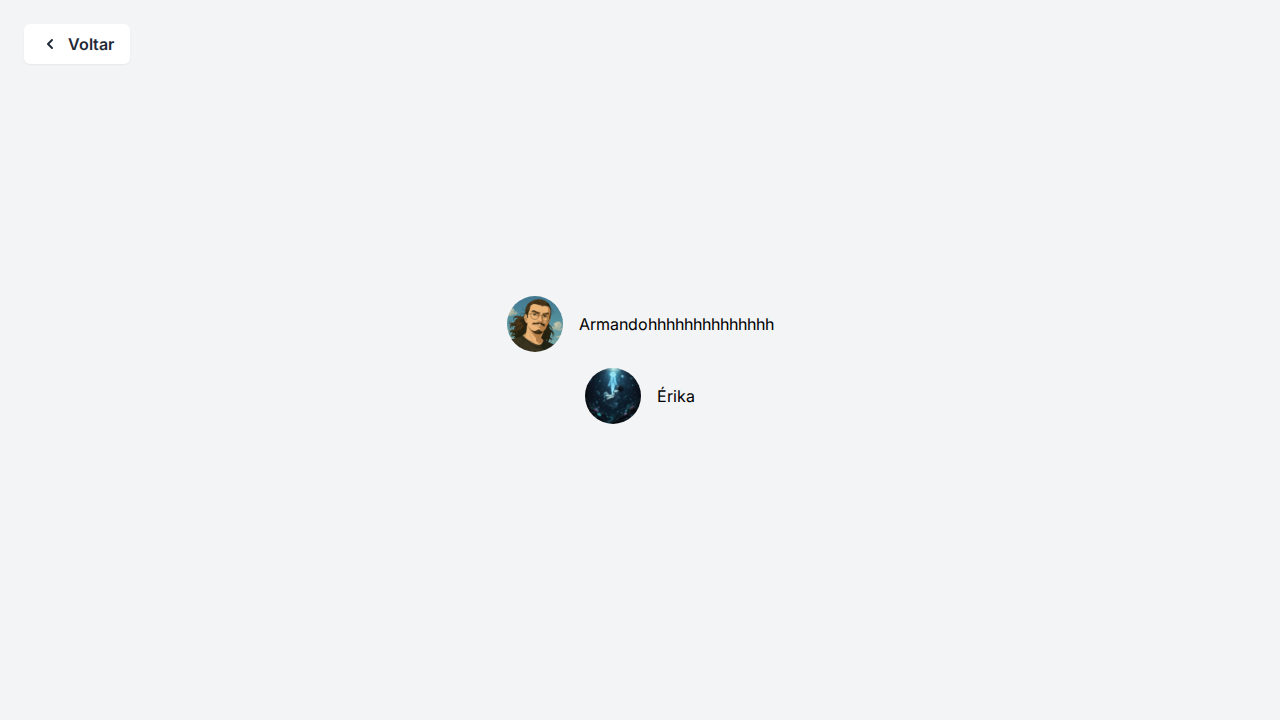
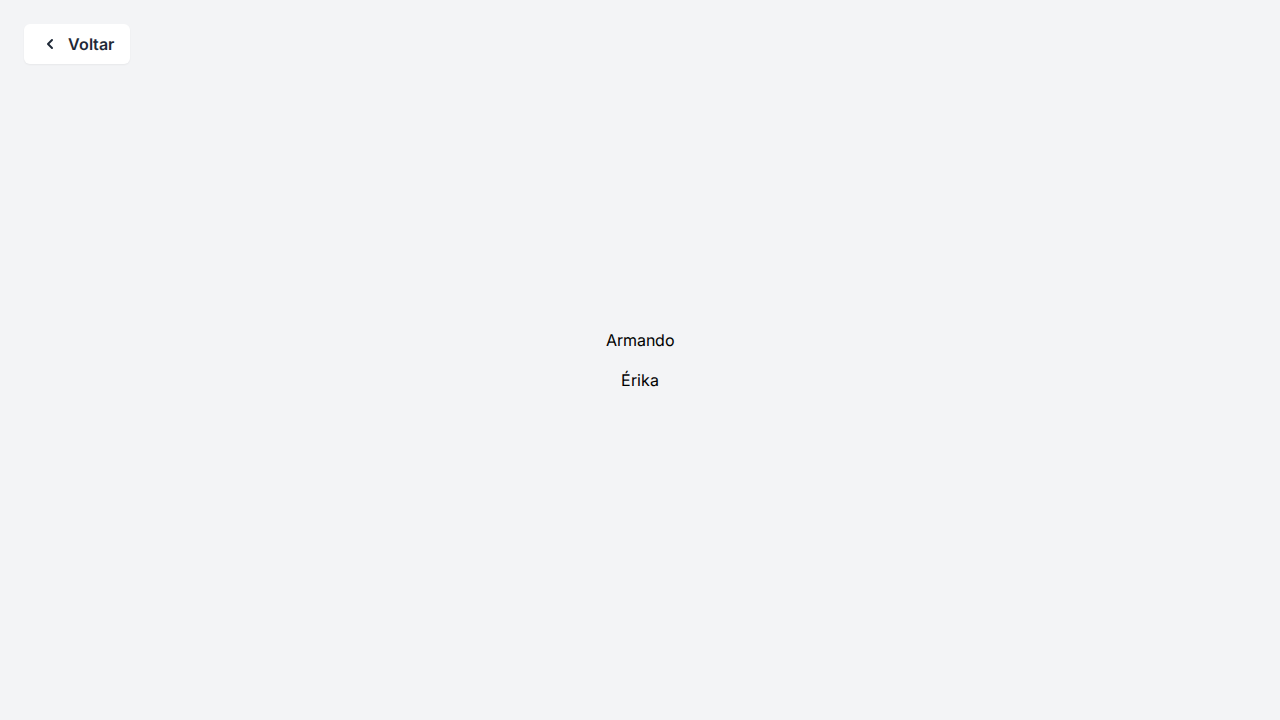
feat: Display only names in user selection screen
This commit updates the user selection screen to display only the user names, removing the profile photos as requested.

The changes are:
- The `<img>` element for the user avatar has been removed from the HTML generated by the `fetchUsers` function.
- The CSS for `.user-avatar` has been removed as it is no longer needed.
- The CSS for `.user-email` has been adjusted for a clean text-only layout.

Changed region(s): [[0.375, 0.3972, 0.625, 0.6111]]

diff --git a/index.htm b/index.htm
@@ -23,16 +23,8 @@
         .user-card {
             @apply flex justify-center items-center p-4 bg-white rounded-xl shadow-md hover:shadow-lg transition-shadow duration-300 cursor-pointer w-full;
         }
-        .user-avatar {
-            width: 56px;
-            height: 56px;
-            object-fit: cover;
-            flex-shrink: 0;
-            border-radius: 9999px;
-            margin-right: 1rem;
-        }
         .user-email {
-            @apply text-lg text-gray-800 font-semibold truncate; /* Made font larger and bolder */
+            @apply text-lg text-gray-800 font-semibold;
         }
         .shopping-list-item {
             @apply flex items-center justify-between p-3 border-b border-gray-200;
@@ -1216,7 +1208,6 @@
                     const avatarSrc = user.avatar_url || `https://placehold.co/64x64/A0A0A0/FFFFFF?text=${(user.profile_name || user.username).charAt(0).toUpperCase()}`;
                     userCard.innerHTML = `
                         <div class="flex items-center">
-                            <img src="${avatarSrc}" alt="Profile" class="user-avatar">
                             <p class="user-email">${user.profile_name || user.username}</p>
                         </div>
                     `;
